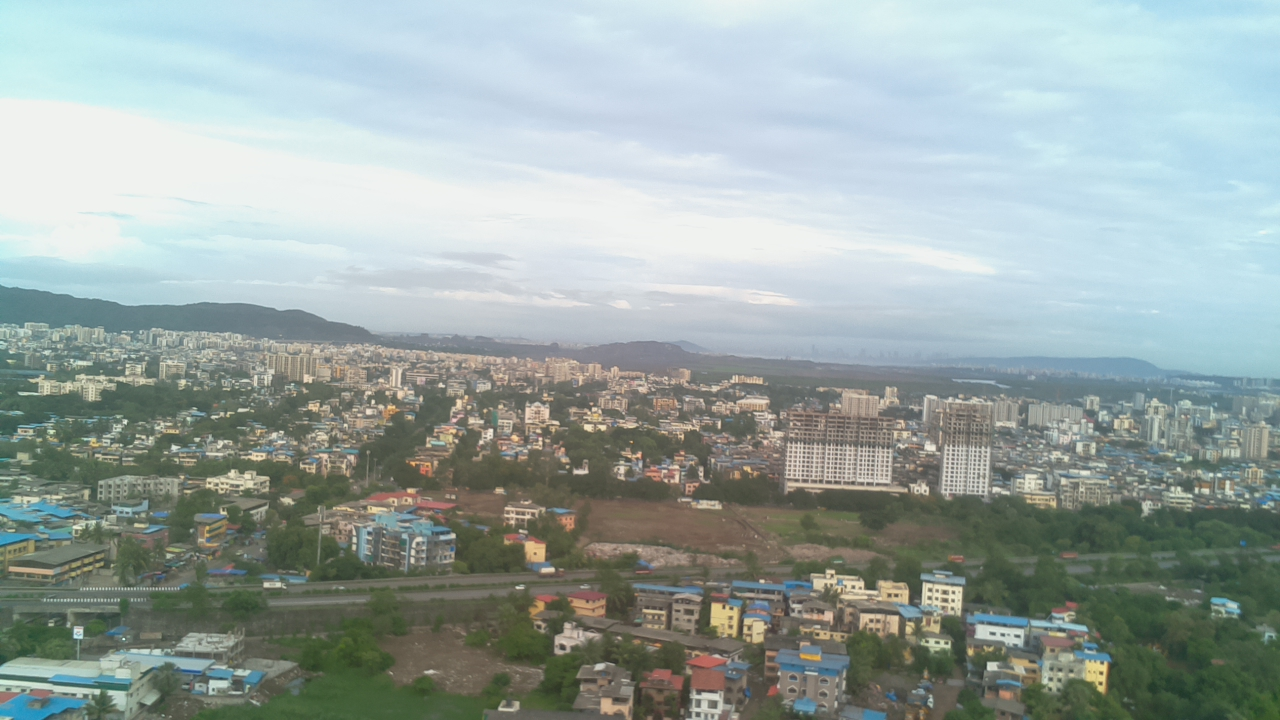
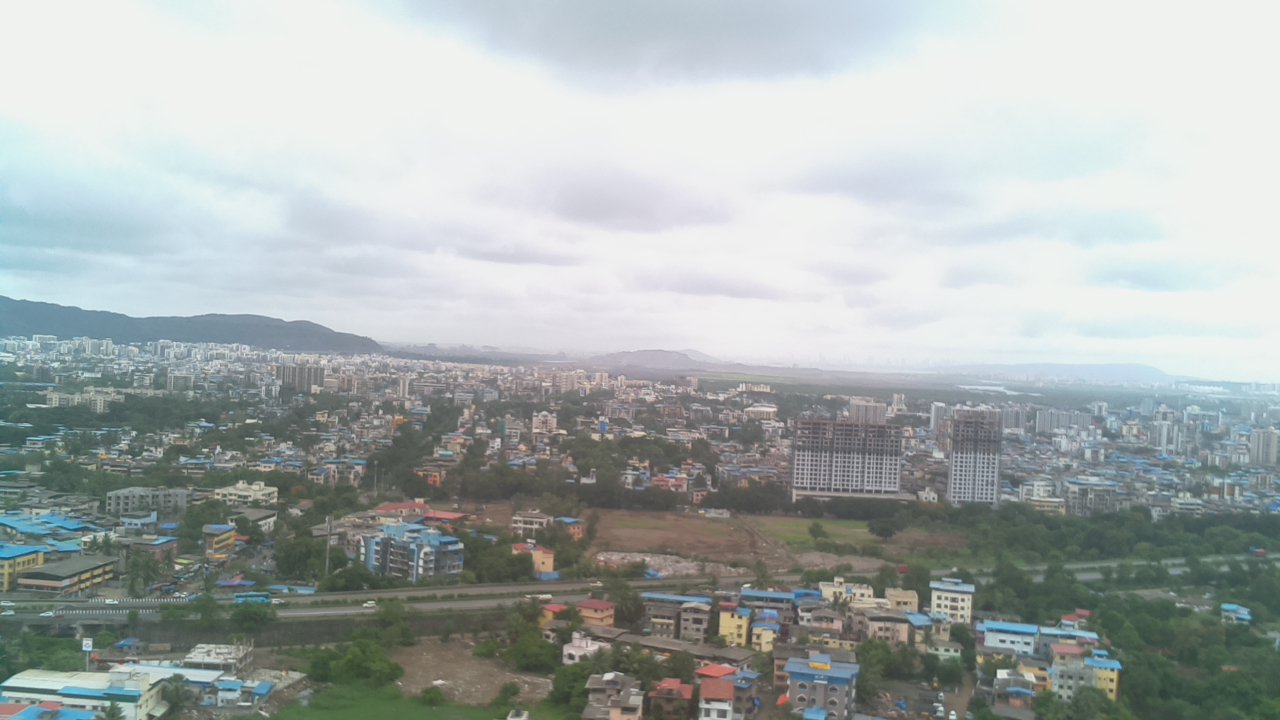
Image update

diff --git a/src/index.html b/src/index.html
@@ -13,7 +13,7 @@
 <center><h2><p style="color:blue;">Rajesh Tota's Cloud based Serverless Website</p></h2></center>
 <center><p style="color:red;">Project: Alexa => Raspberry Pi + Camera => Azure Cloud Static_Web_App</p>
 <center><p>
-This image was taken on 26.06.2022 - 07:00 IST
+This image was taken on 27.06.2022 - 12:51 IST
 </p>
 <script>
 document.getElementById("date-time").innerHTML = formatAMPM();
